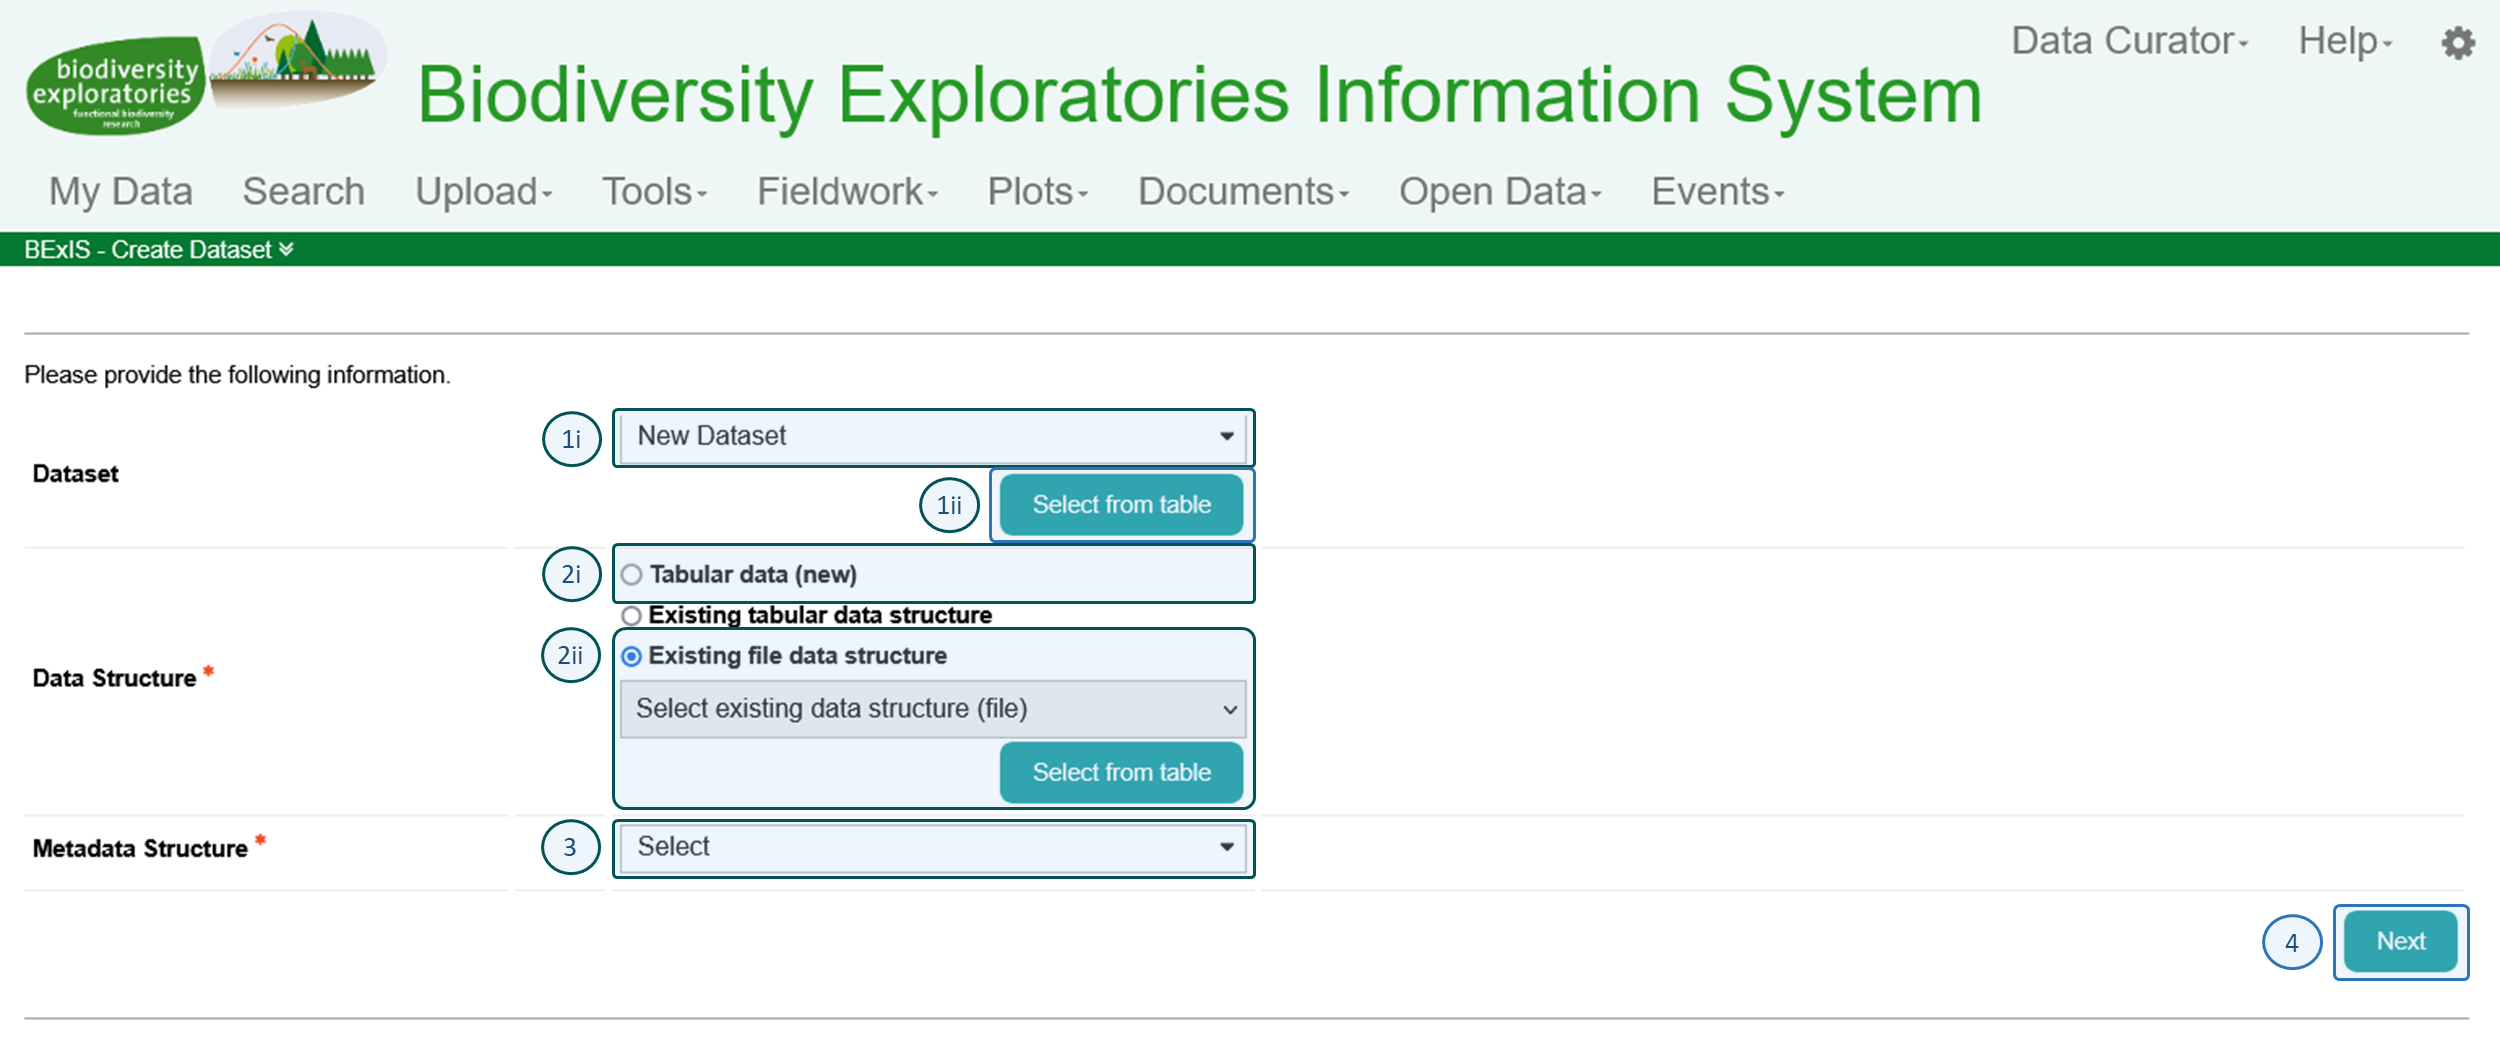
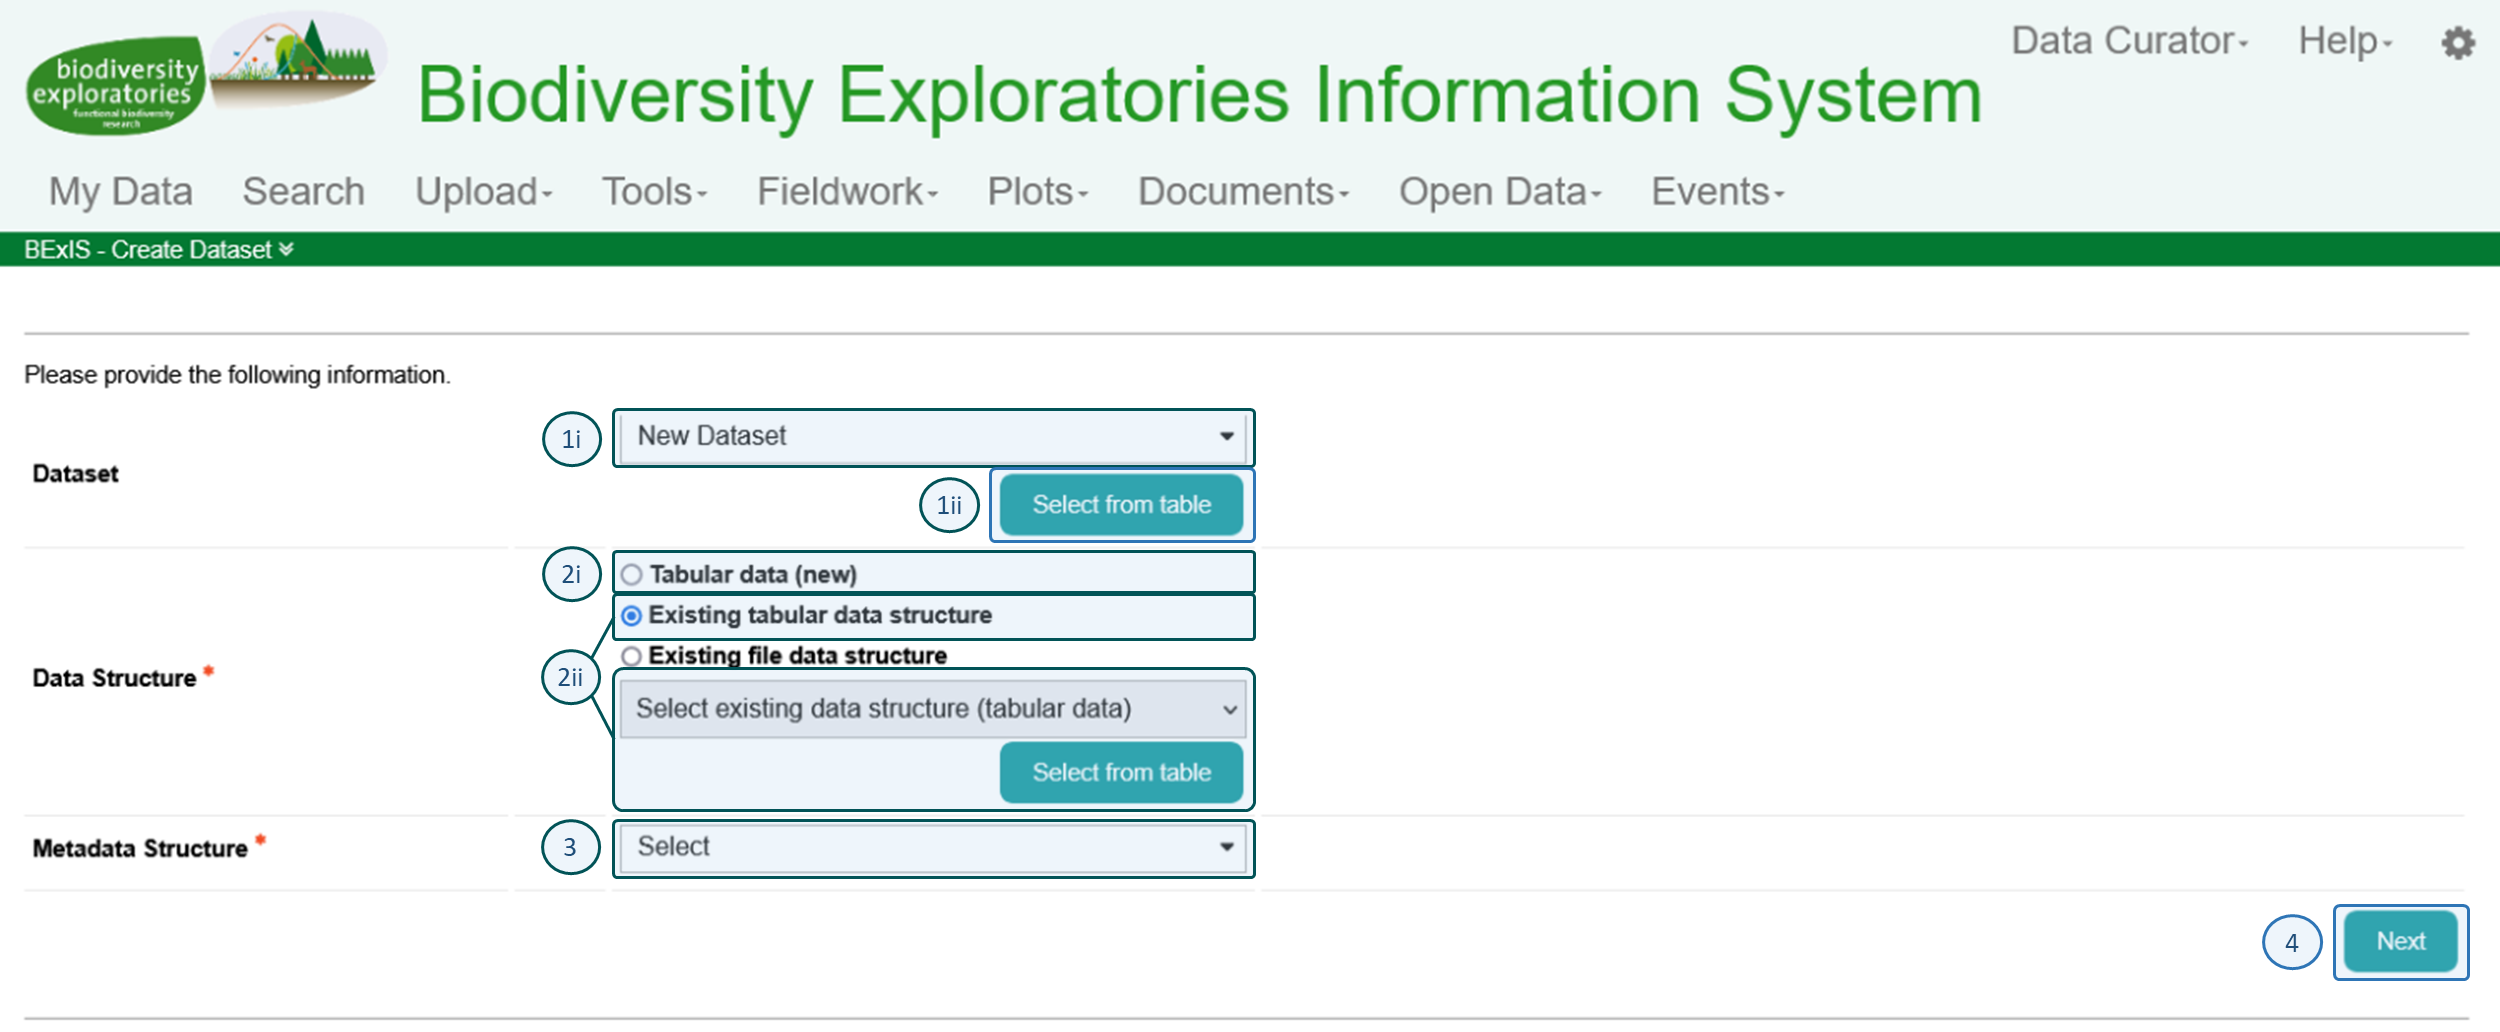
update figure 2 and dataset creation workflow

diff --git a/HowTo/HowToUpload.md b/HowTo/HowToUpload.md
@@ -73,16 +73,14 @@ and following these steps :
 
 1.  Dataset:
     1.  To create a blank dataset, choose *New Datase*t -\> next step 2i
-    2.  To use an existing dataset as template, select this dataset from the list -\> next step 2i or 2ii
+    2.  To use an existing dataset as template, select this dataset from the list or by clicking *Select from table* from the provided table  -\> next step 2i or 2ii
 
 2.  Data Structure:
-    1.  Define the data structure; choose *Tabular data (new)*; to reuse
-        an existing data structure, select *Existing tabular data
-        structure* and select a data structure from the list-\> next
+    1.  Define a new data structure: choose *Tabular data (new)* -\> next
         step 3i
-    2.  Use the data structure of the chosen data record (1i), choose
-        another existing data structure, or create a new one by
-        choosing *Tabular data (new)* -\> next step 4i
+    2.  Use an already existing data structure:
+        - of the dataset chosen in step 1ii -\> next step 4i
+        - or choose another existing data structure from the list or from the table by clicking *Select from table*, -\> next step 3i or 4i
 
 3.  Metadata Structure:
     1.  Use the metadata schema called *Biodiversity Exploratories Metadata
